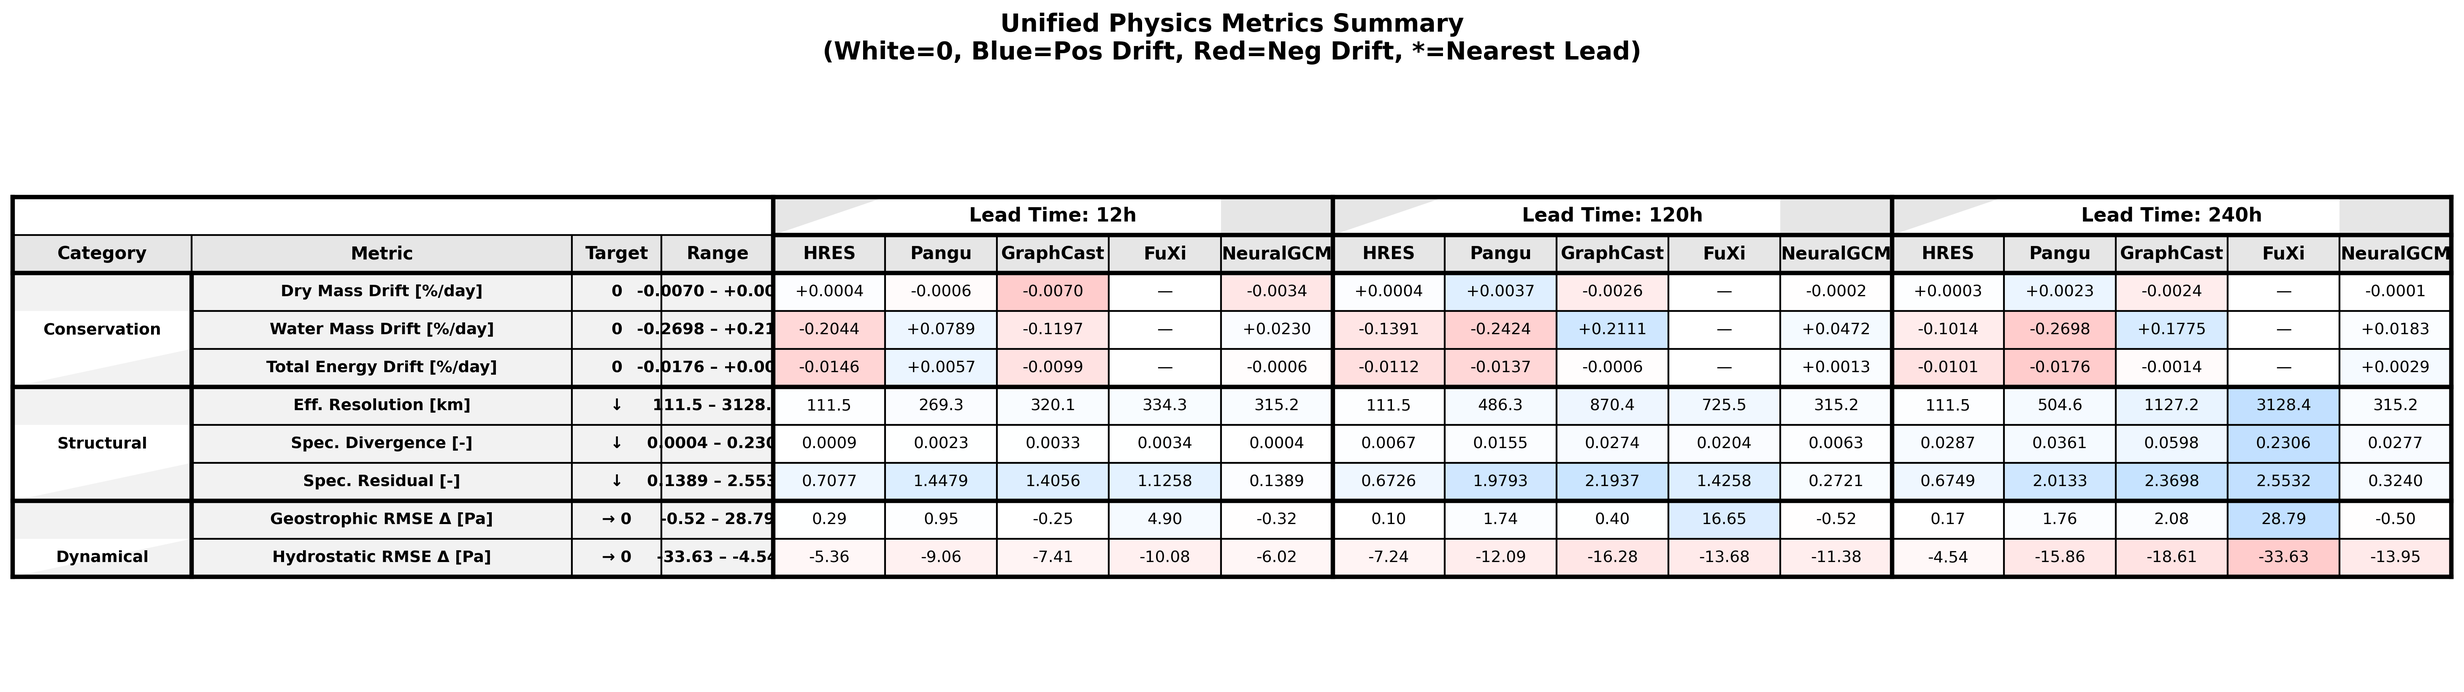
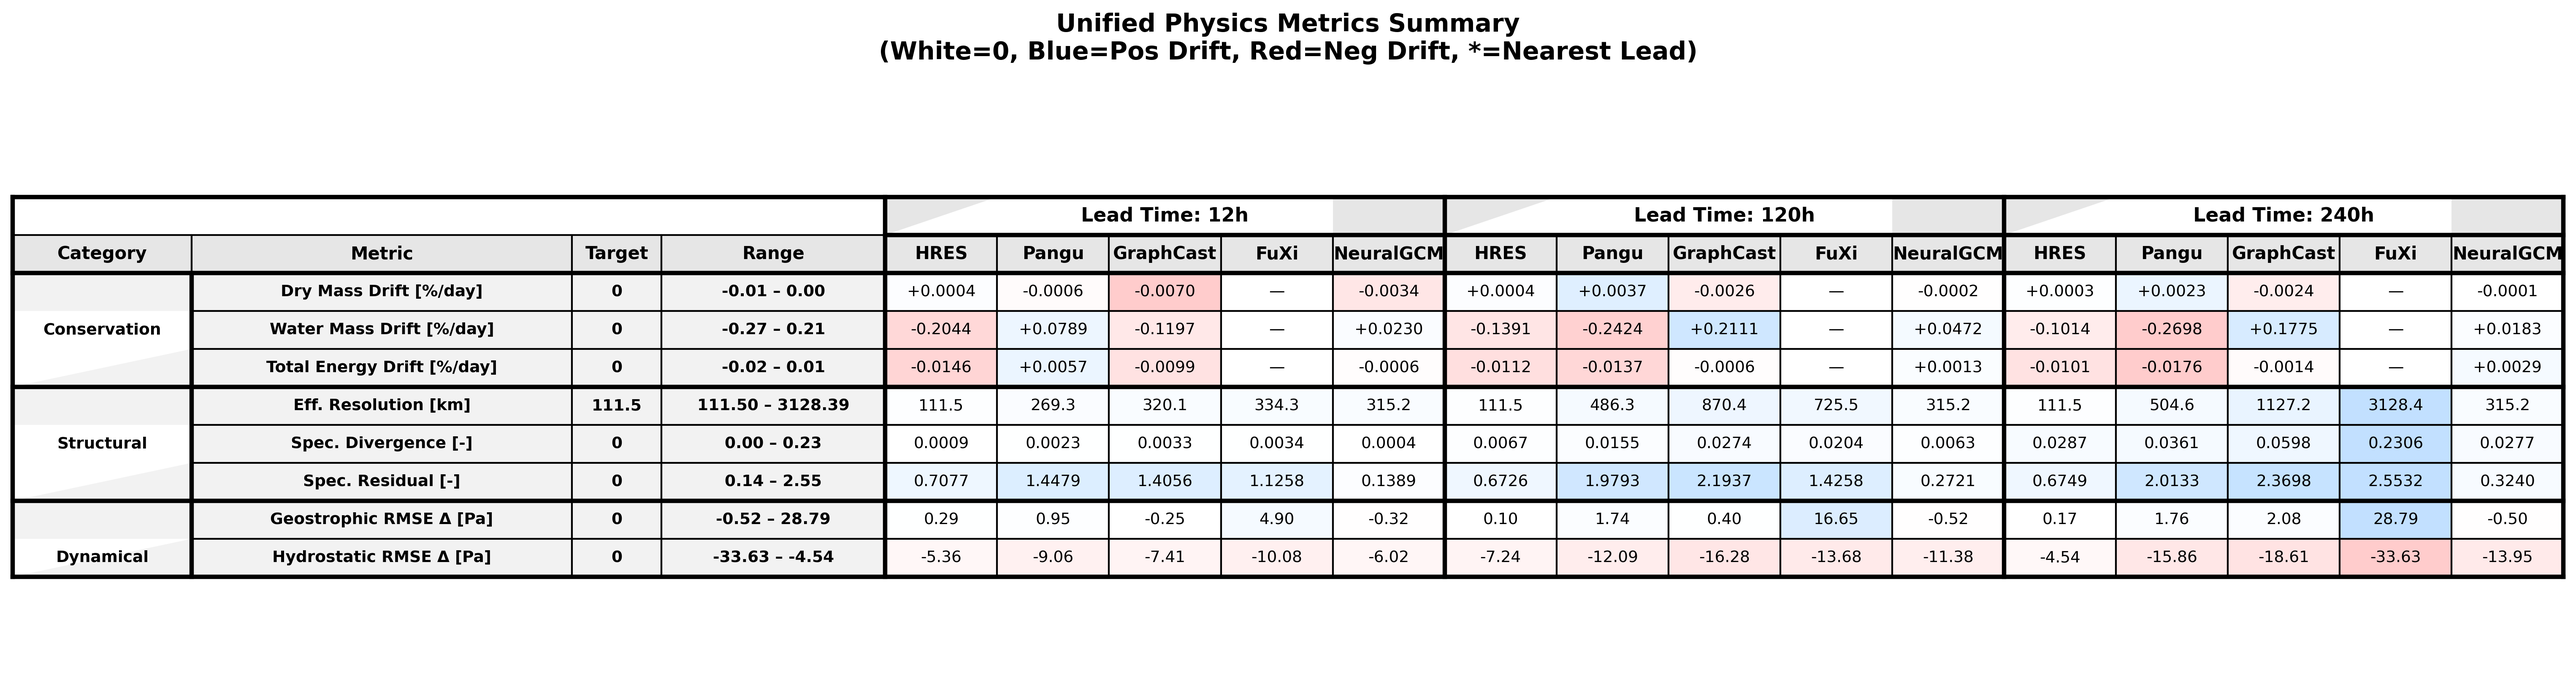
Improve Range column: wider, 2 decimals, fix target values
- Increased Range column width
- Round range values to 2 decimals
- Set target for Eff. Resolution to 111.5 km
- Set target for Spec. Divergence/Residual to 0
- Simplified RMSE targets to just '0'

diff --git a/thesis/scripts/plot_summary_table.py b/thesis/scripts/plot_summary_table.py
@@ -486,13 +486,13 @@ def render_unified_png_table(leads: list[int], summaries: dict[str, pd.DataFrame
             ("total_energy_drift_pct_per_day", "Total Energy Drift [%/day]", "0")
         ],
         "Structural": [
-            ("effective_resolution_km", "Eff. Resolution [km]", "↓"),
-            ("spectral_divergence", "Spec. Divergence [-]", "↓"),
-            ("spectral_residual", "Spec. Residual [-]", "↓")
+            ("effective_resolution_km", "Eff. Resolution [km]", "111.5"),
+            ("spectral_divergence", "Spec. Divergence [-]", "0"),
+            ("spectral_residual", "Spec. Residual [-]", "0")
         ],
         "Dynamical": [
-            ("geostrophic_rmse", "Geostrophic RMSE Δ [Pa]", "→ 0"),
-            ("hydrostatic_rmse", "Hydrostatic RMSE Δ [Pa]", "→ 0")
+            ("geostrophic_rmse", "Geostrophic RMSE Δ [Pa]", "0"),
+            ("hydrostatic_rmse", "Hydrostatic RMSE Δ [Pa]", "0")
         ]
     }
 
@@ -557,7 +557,7 @@ def render_unified_png_table(leads: list[int], summaries: dict[str, pd.DataFrame
             if np.isnan(rng[0]) or np.isnan(rng[1]):
                 m_range = "—"
             else:
-                m_range = f"{fmt(rng[0], m_key)} – {fmt(rng[1], m_key)}"
+                m_range = f"{rng[0]:.2f} – {rng[1]:.2f}"
             
             row_t = [cat_name if i == len(metrics)//2 else "", m_label, m_target, m_range]
             row_c = [cat_color, cat_color, cat_color, cat_color]
@@ -606,7 +606,7 @@ def render_unified_png_table(leads: list[int], summaries: dict[str, pd.DataFrame
     fig, ax = plt.subplots(figsize=(fig_w, fig_h))
     ax.axis("off")
 
-    colWidths = [0.08, 0.17, 0.04, 0.05] + [0.05] * (len(leads) * len(models_to_plot))
+    colWidths = [0.08, 0.17, 0.04, 0.10] + [0.05] * (len(leads) * len(models_to_plot))
     table = ax.table(
         cellText=cell_texts,
         cellColours=[[tuple(c) for c in row] for row in cell_colors],
